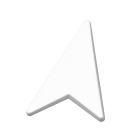
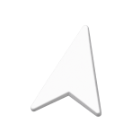
Reduce un diez por ciento la flecha del icono

Changed region(s): [[0.1714, 0.1429, 0.7714, 0.8857]]

diff --git a/BITACORA.md b/BITACORA.md
@@ -1,5 +1,10 @@
 # Bitácora técnica de BMWLauncher
 
+## 2026-11-16 · Tamaño del icono de BMWLauncher
+
+- A petición del usuario, la flecha de navegación se reduce un 10 % dentro del PNG transparente de 140 × 140 px. El escalado de alta calidad se centra con un margen adicional de 7 px por lado.
+- Revisada la comparación con el original a 140 y 40 px y comprobado el recurso indicado por el manifiesto en el paquete fuente. Pasaron 456 pruebas con `node --test --test-concurrency=4 emulator/split/*.test.js`. Queda comprobar el tamaño en el menú físico de iDrive.
+
 ## 2026-11-15 · Icono de BMWLauncher en iDrive
 
 - La entrada de BMWLauncher en el menú de aplicaciones de iDrive 8 usaba un cuadrado azul. `carlab.png` pasa a mostrar una flecha blanca de navegación inclinada hacia la derecha, con relieve gris y fondo transparente. El recurso conserva sus 140 × 140 px y la referencia del manifiesto.
